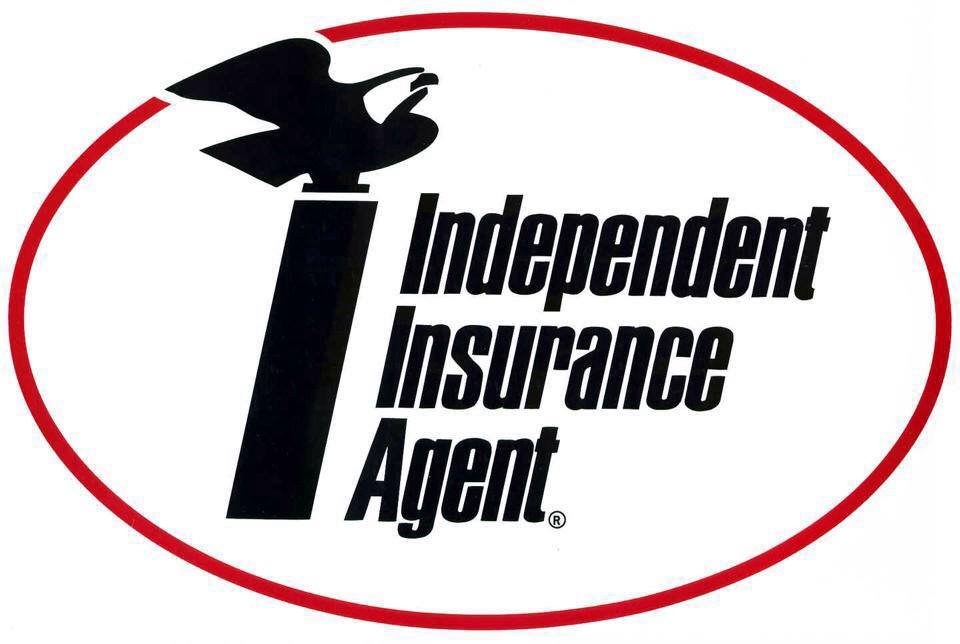
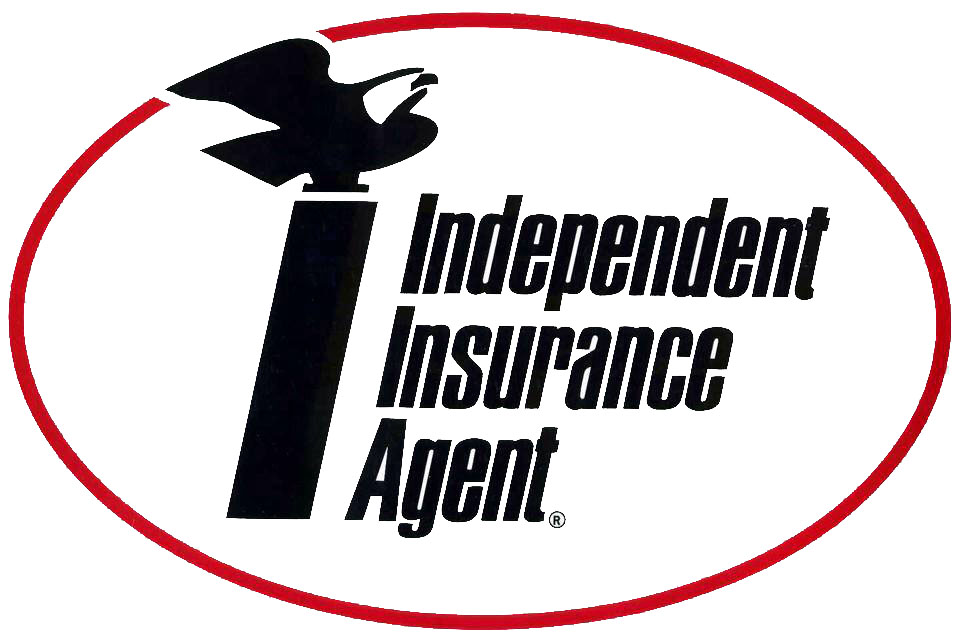
Changes background in photos to be transparent, working on top nav to highlight and have a drop down menu

diff --git a/Sullivan-Insurance/index.html b/Sullivan-Insurance/index.html
@@ -10,18 +10,21 @@
     <body>
         <div id="head">
             <div class= "full-div">
-                <img id="logo" src="img/sullivan-logo.jpg" alt="sullogo">
-                <nav id="nav-bar">
-                    <ul>
-                    <li><a href="home">Home</a></li>
-                    <li><a href="quotes">Quotes</a></li>
-                    <li><a href="service center">Service Center</a></li>
-                    <li><a href="lerning center">Learning Center</a></li>
-                    <li><a href="calculators">Calculators</a></li>
-                    <li><a href="glossary">Glossary</a></li>
-                    <li><a href="contact">Contact</a></li>
-                    </ul>
-                </nav>
+                <img id="logo" src="img/sullivan-logo.png" alt="sullogo">
+                <div id="nav-bar">
+                    <a href="home">Home</a>
+                  <div class="dropdown">
+                    <li><button class="dropbtn">Quotes<i class= "fa fa-caret-down"></i></button></li>
+                    <div class= "dropdown-content">
+                        <a href="#">link 1</a>
+                    </div>
+                 </div>  
+                    <a href="service center">Service Center</a>
+                    <a href="lerning center">Learning Center</a>
+                    <a href="calculators">Calculators</a>
+                    <a href="glossary">Glossary</a>
+                    <a href="contact">Contact</a>
+                </div>
             </div>
         </div>
         <div id="mainc">
@@ -95,9 +98,9 @@
 <div id="footer">
         <footer> 
                 <h3>Please DO NOT leave our site with unanswered questions - contact the agency!  The only "bad" questions are those never asked - Make an Informed Decision!</h3>
-                <img id="iia" src="img/sullivan-iia.jpg" alt="sullogo">
-                <img id="isne" src="img/sullivan-isne.jpg" alt="sullogo">
-                <img id="tc" src="img/sullivan-trusted.jpg" alt="sullogo">
+                <img id="iia" src="img/sullivan-iia.png" alt="iia">
+                <img id="isne" src="img/sullivan-isne.png" alt="isne">
+                <img id="tc" src="img/sullivan-trusted.png" alt="trusted">
 
         </footer>
 </div>

diff --git a/Sullivan-Insurance/css/main.css b/Sullivan-Insurance/css/main.css
@@ -53,18 +53,20 @@ footer{
 
 /*Nav styling*/
 
-nav {
+/*Nav styling*/
+
+#nav-bar {
 	
 	list-style-type:none; 
-    Padding: 1vw 0vw 1vw 0vw;
-	background-color:lightgray;
-}
-nav ul li{
-
     display:inline-block;
-}
+    padding-left:6vw;
+	background-color:lightgray;
+	width: 100%;
+	height:5vw
+} 
 
-nav ul li a {
+
+.dropbtn, #nav-bar a  {
 
     font-family:inherit;
     color:#b84118;
@@ -75,7 +77,38 @@ nav ul li a {
     Margin-right:1.5vw;
     text-decoration: none;
     list-style: none;
+    float: left;
+    border: none;
+  	outline: none;
+  	background-color:inherit;
 }
+
+/* Dropdown container - needed to position the dropdown content */
+.dropdown {
+  float: left;
+  overflow: hidden;
+}
+
+/* Style the dropdown content (hidden by default) */
+.dropdown-content {
+  display: none;
+  position: absolute;
+  background-color: #f9f9f9;
+  min-width: 160px;
+  box-shadow: 0px 8px 16px 0px rgba(0,0,0,0.2);
+  z-index: 1;
+}
+
+/* Style the links inside the dropdown */
+.dropdown-content a {
+  float: none;
+  color: black;
+  padding: 12px 16px;
+  text-decoration: none;
+  display: block;
+  text-align: left;
+}
+
 
 #mainc .full-div{
 	Background-color:#d3d3d354;
